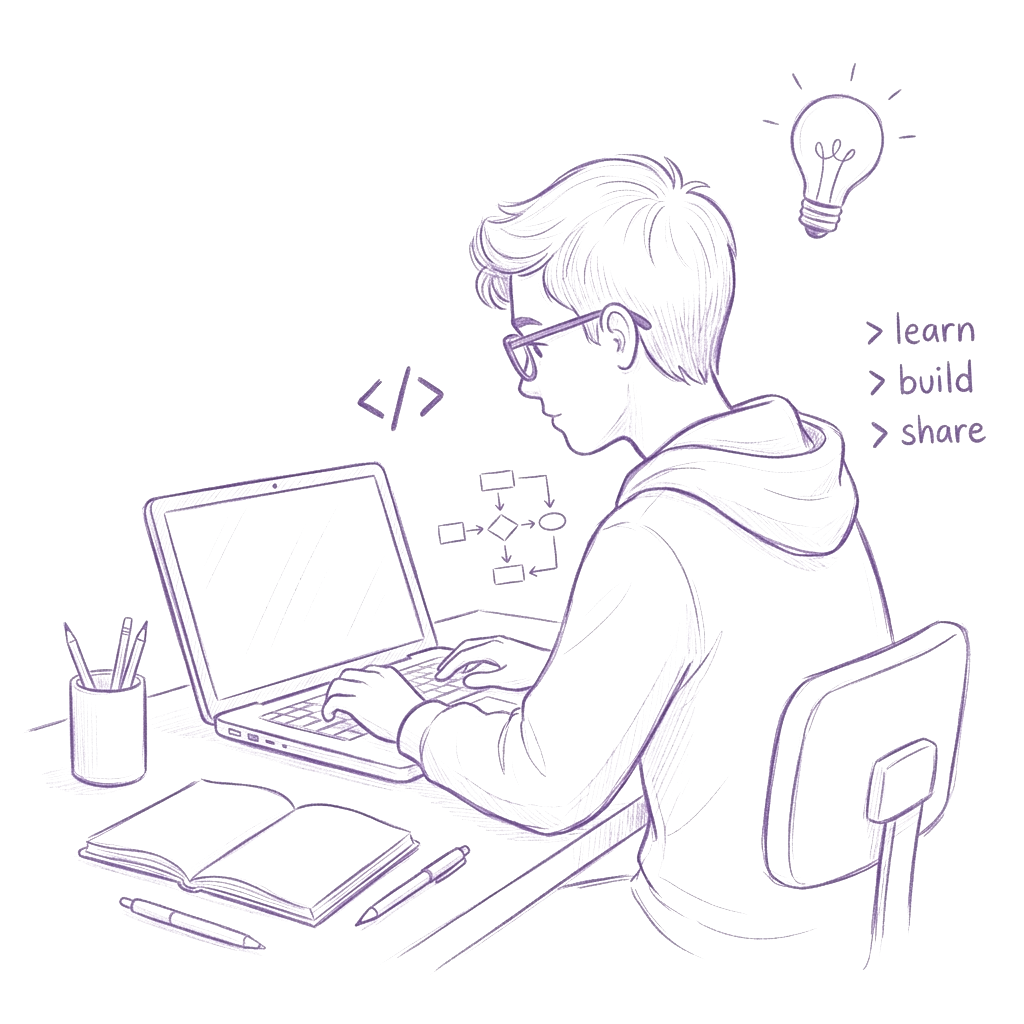
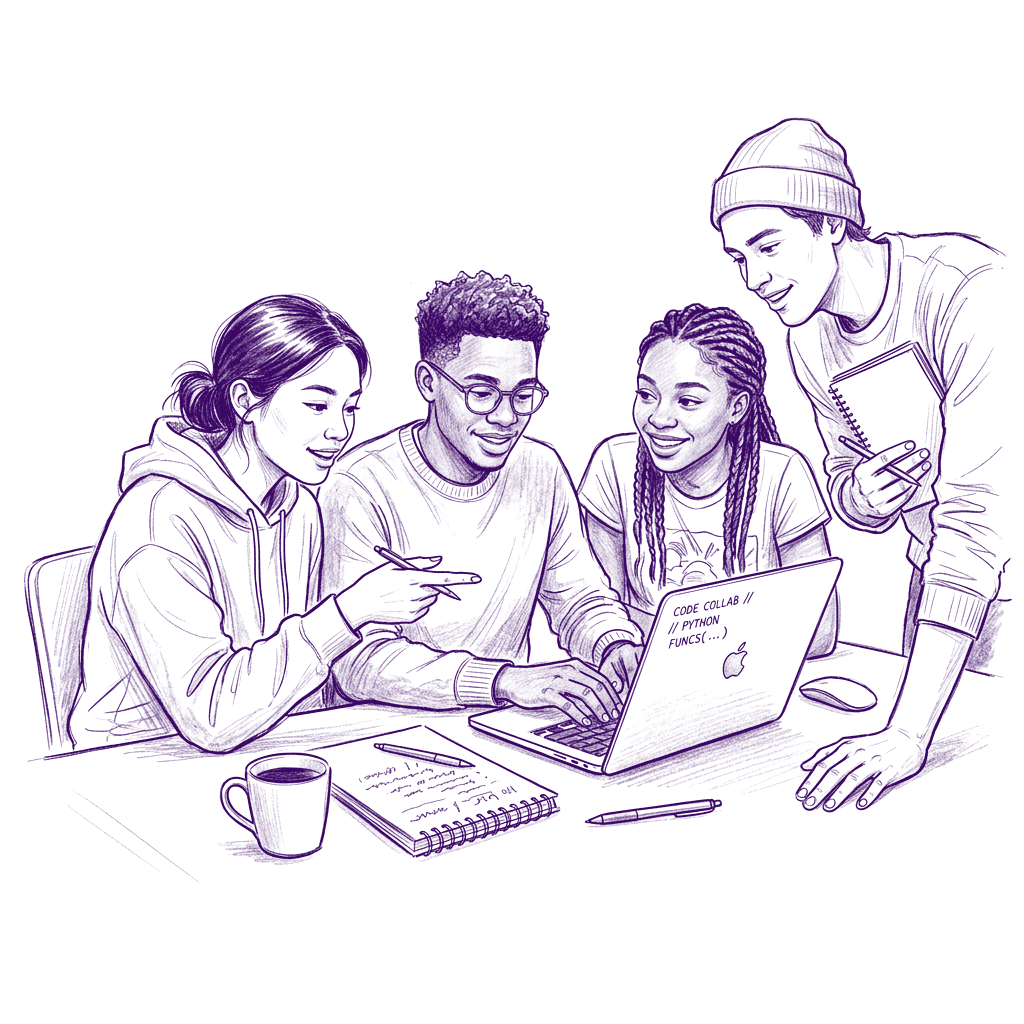
hero section update

Changed region(s): [[0.0, 0.0938, 1.0, 0.9375], [0.8438, 0.0938, 0.875, 0.125], [0.4375, 0.875, 0.4688, 0.9062]]

diff --git a/src/components/sections/Hero.jsx b/src/components/sections/Hero.jsx
@@ -172,7 +172,7 @@ export default function Hero() {
 
         {/* Right Column: Student Sketch Illustration */}
         <div className="lg:col-span-6 flex justify-center items-center relative py-2">
-          <div className="relative w-full max-w-[500px] lg:max-w-[560px] flex items-center justify-center">
+          <div className="relative w-full max-w-[550px] lg:max-w-[610px] flex items-center justify-center">
             <motion.img
               initial={{ opacity: 0, scale: 0.95 }}
               animate={{ opacity: 1, scale: 1 }}